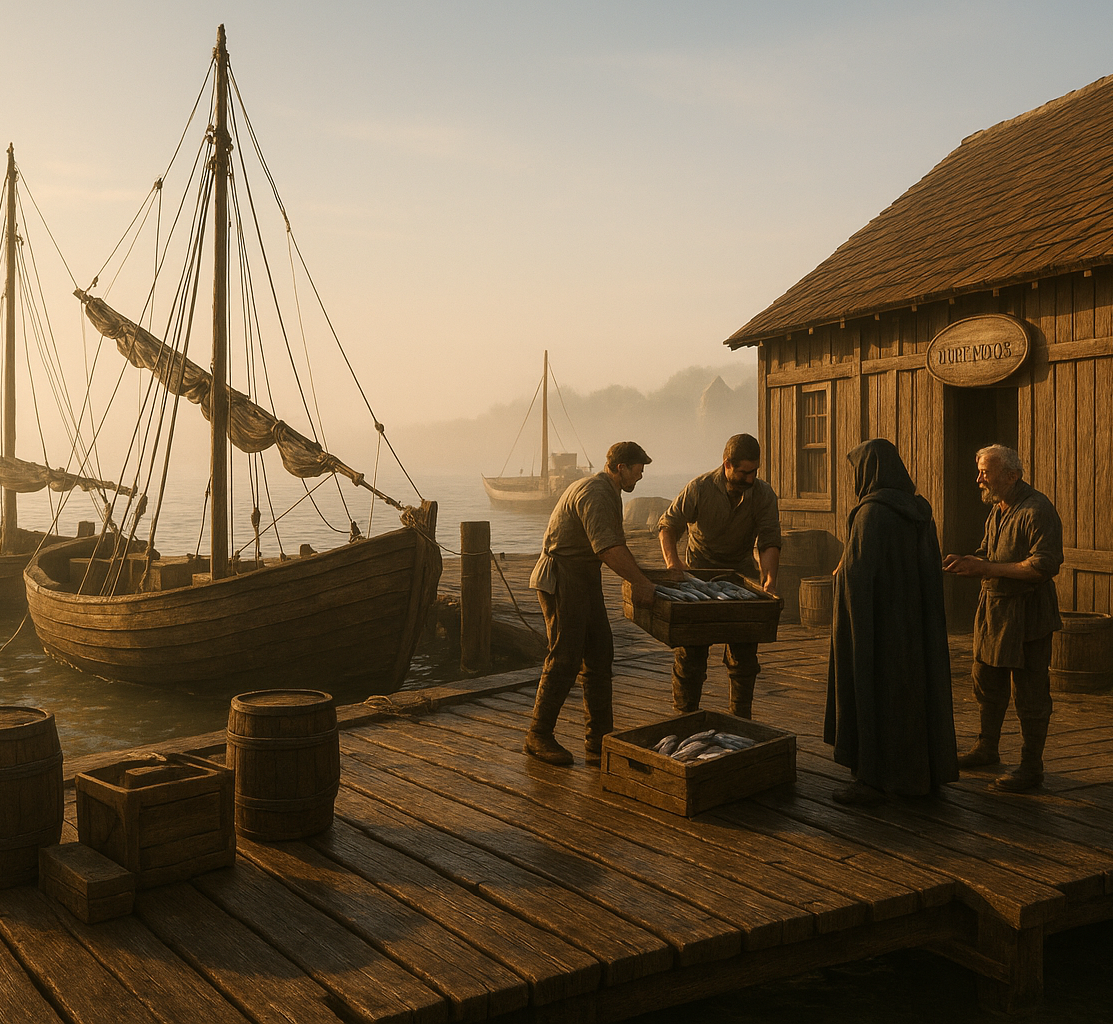
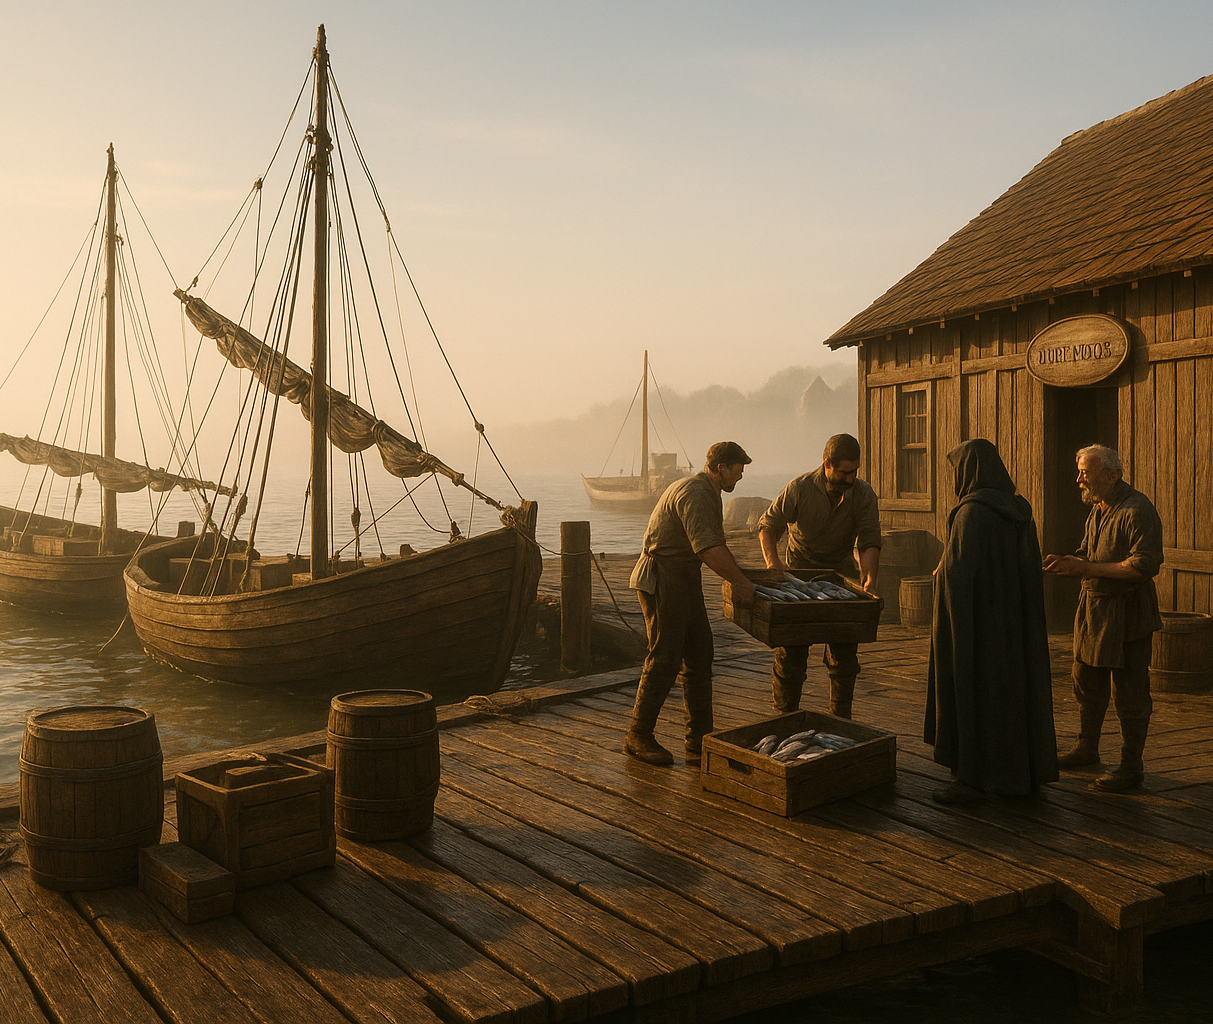
adventure: update images

diff --git a/content/ru.md b/content/ru.md
@@ -90,7 +90,7 @@ ver 4.0.0
 Автор — [Сергей Куплетский](mailto:s.kupletsky@gmail.com).
 
 <!-- prettier-ignore -->
-![Illustration](./assets/illustrations/city_04.png){class="absolute-bottom-right mask mask--watercolor-03" style="height:700px; width: 400px; bottom: 0px; object-position: center -100px;"}
+![Illustration](./assets/illustrations/streets.png){class="absolute-bottom-right mask mask--watercolor-03" style="height:700px; width: 400px; bottom: 0px; object-position: center -100px;"}
 
 ::: page {show-page-number="false"}
 
@@ -722,7 +722,7 @@ _14 Лотвиэля (апреля), четверг_
 Сцена переносится в локацию [Дом Марии](#дом-марии).
 
 <!-- prettier-ignore -->
-![Illustration](./assets/illustrations/city_05.png) {style="height:500px" class="framed-image"}
+![Illustration](./assets/illustrations/city.png) {style="height:500px" class="framed-image"}
 
 ::: page
 

diff --git a/content/en.md b/content/en.md
@@ -87,7 +87,7 @@ were generated with ChatGPT.
 Author — [Sergey Kupletsky](mailto:s.kupletsky@gmail.com).
 
 <!-- prettier-ignore -->
-![Illustration](./assets/illustrations/city_04.png){class="absolute-bottom-right mask mask--watercolor-03" style="height:700px; width: 400px; bottom: 60px; object-position: center -100px;"}
+![Illustration](./assets/illustrations/streets.png){class="absolute-bottom-right mask mask--watercolor-03" style="height:700px; width: 400px; bottom: 60px; object-position: center -100px;"}
 
 ::: page {show-page-number="false"}
 
@@ -586,7 +586,7 @@ Locals can tell you the last time they heard this signal was during the demon on
 The scene moves to **[Maria’s House](#marias-house)**.
 
 <!-- prettier-ignore -->
-![Illustration](./assets/illustrations/city_05.png) {style="height:515px" class="framed-image"}
+![Illustration](./assets/illustrations/city.png) {style="height:515px" class="framed-image"}
 
 ::: page
 

diff --git a/content/index.md b/content/index.md
@@ -52,7 +52,7 @@ In addition, whenever you cast that spell, you can choose one of the following a
 spell
 save DC or have Disadvantage on attack rolls against creatures other than you until the start of your next turn.
 
-![Illustration](./assets/illustrations/city_05.png) {style="height:520px" class="framed-image"}
+![Illustration](./assets/illustrations/city.png) {style="height:520px" class="framed-image"}
 
 ::: page {type="inside-cover"}
 
